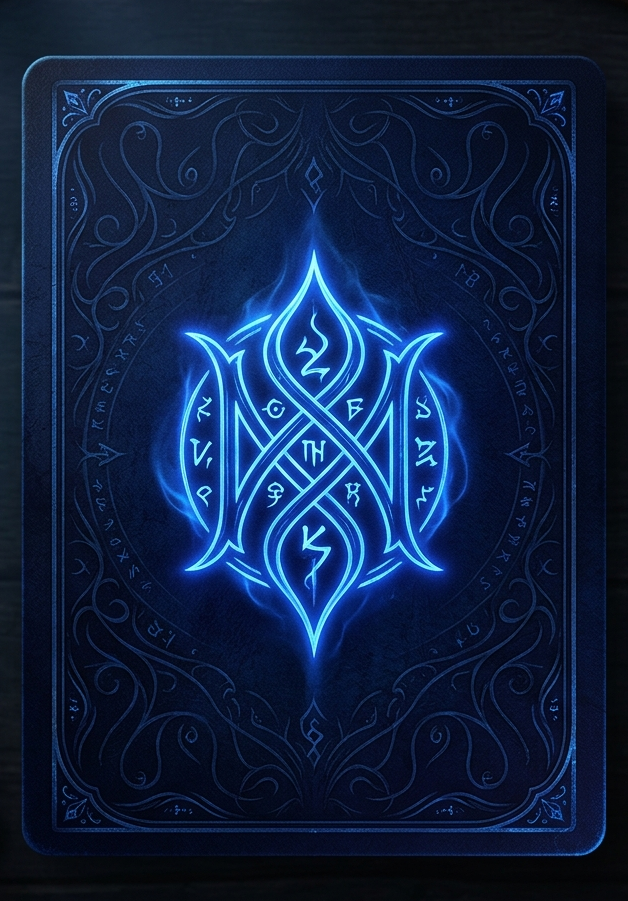
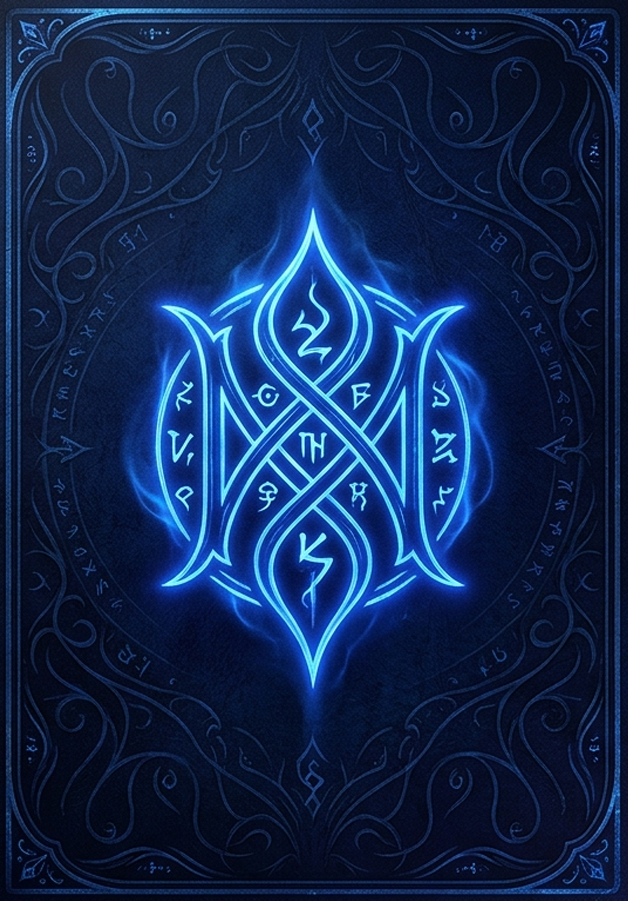
Rework Pity System: add 4th Emergency Aid choice (+35 HP & +20 Armor) in Loot Modal for dynamic Risk vs Reward tactical decision

diff --git a/src/components/LootModal/LootModal.jsx b/src/components/LootModal/LootModal.jsx
@@ -1,6 +1,17 @@
 import React from 'react';
 import './LootModal.css';
 
+const PITY_AID_CARD = {
+  id: 'pity_emergency_aid',
+  name: 'Emergency Aid',
+  type: 'PITY_AID',
+  rarity: 'epic',
+  value: 35,
+  icon: '🚑',
+  color: '#ff0055',
+  description: 'Bantuan Darurat! Pulihkan +35 HP & +20 Armor (Tidak menambah kartu ke deck).'
+};
+
 const LootModal = ({ stage, choices = [], isPityActive, onSelectLoot }) => {
   const choicesCount = choices.length;
 
@@ -10,6 +21,11 @@ const LootModal = ({ stage, choices = [], isPityActive, onSelectLoot }) => {
   } else if (choicesCount === 1) {
     subtitleText = "Tersisa 1 Kartu Baru di Katalog! Klaim kartu terakhir Anda:";
   }
+
+  // Jika Pity System Aktif, tambahkan Pity Aid Card sebagai Pilihan Ke-4 (Emergency Aid)
+  const displayChoices = isPityActive && choicesCount > 0
+    ? [...choices, PITY_AID_CARD]
+    : choices;
 
   return (
     <div className="modal-overlay">
@@ -34,31 +50,37 @@ const LootModal = ({ stage, choices = [], isPityActive, onSelectLoot }) => {
 
             {isPityActive && (
               <div className="pity-notice">
-                🌟 <strong>Pity System Active!</strong> Peluang mendapatkan Kartu Rare & Epic meningkat +25%!
+                🌟 <strong>Pity System Active!</strong> Pilihan Ke-4 "Bantuan Darurat (+35 HP & +20 Armor)" Diaktifkan untuk menyelamatkan Anda!
               </div>
             )}
 
-            <div className={`loot-choices-grid count-${choicesCount}`}>
-              {choices.map((card) => (
-                <div
-                  key={card.id}
-                  className={`loot-card-item ${card.rarity}`}
-                  onClick={() => onSelectLoot(card)}
-                >
-                  <span className="loot-rarity-tag" style={{ color: card.color }}>
-                    {card.rarity}
-                  </span>
-                  <div className="loot-card-icon" style={{ color: card.color }}>
-                    {card.img ? (
-                      <img src={card.img} alt={card.name} className="card-art-img" style={{ borderColor: card.color }} />
-                    ) : (
-                      card.icon
-                    )}
+            <div className={`loot-choices-grid count-${displayChoices.length}`}>
+              {displayChoices.map((card) => {
+                const isPityCard = card.id === 'pity_emergency_aid';
+
+                return (
+                  <div
+                    key={card.id}
+                    className={`loot-card-item ${card.rarity} ${isPityCard ? 'pity-aid-item' : ''}`}
+                    onClick={() => onSelectLoot(card)}
+                  >
+                    <span className="loot-rarity-tag" style={{ color: card.color }}>
+                      {isPityCard ? 'PITY AID' : card.rarity}
+                    </span>
+                    <div className="loot-card-icon" style={{ color: card.color }}>
+                      {card.img ? (
+                        <img src={card.img} alt={card.name} className="card-art-img" style={{ borderColor: card.color }} />
+                      ) : (
+                        card.icon
+                      )}
+                    </div>
+                    <div className="loot-card-name" style={{ color: isPityCard ? '#ff0055' : 'inherit' }}>
+                      {card.name}
+                    </div>
+                    <div className="loot-card-desc">{card.description}</div>
                   </div>
-                  <div className="loot-card-name">{card.name}</div>
-                  <div className="loot-card-desc">{card.description}</div>
-                </div>
-              ))}
+                );
+              })}
             </div>
           </>
         )}

diff --git a/src/components/LootModal/LootModal.css b/src/components/LootModal/LootModal.css
@@ -15,8 +15,8 @@
 
 .loot-modal-content {
   width: 90%;
-  max-width: 600px;
-  padding: 30px;
+  max-width: 680px;
+  padding: 30px 24px;
   display: flex;
   flex-direction: column;
   align-items: center;
@@ -37,15 +37,16 @@
   font-size: 0.85rem;
   color: #ff0055;
   background: rgba(255, 0, 85, 0.15);
-  padding: 6px 14px;
+  padding: 8px 16px;
   border-radius: 20px;
   border: 1px solid rgba(255, 0, 85, 0.4);
+  box-shadow: 0 0 12px rgba(255, 0, 85, 0.2);
 }
 
 .loot-choices-grid {
   display: flex;
   justify-content: center;
-  gap: 16px;
+  gap: 14px;
   width: 100%;
   margin-top: 10px;
 }
@@ -56,6 +57,11 @@
 
 .loot-choices-grid.count-2 .loot-card-item {
   max-width: 200px;
+}
+
+.loot-choices-grid.count-4 .loot-card-item {
+  max-width: 145px;
+  padding: 14px 8px;
 }
 
 .loot-card-item {
@@ -90,6 +96,24 @@
 .loot-card-item.epic {
   border-color: rgba(168, 85, 247, 0.9);
   box-shadow: 0 0 15px rgba(168, 85, 247, 0.4);
+}
+
+/* Pity Emergency Aid Item Styling */
+.loot-card-item.pity-aid-item {
+  border-color: #ff0055;
+  background: rgba(255, 0, 85, 0.14);
+  box-shadow: 0 0 20px rgba(255, 0, 85, 0.4);
+  animation: pulsePity 2s infinite alternate;
+}
+
+.loot-card-item.pity-aid-item:hover {
+  border-color: #ff3377;
+  box-shadow: 0 0 30px rgba(255, 0, 85, 0.8);
+}
+
+@keyframes pulsePity {
+  from { box-shadow: 0 0 12px rgba(255, 0, 85, 0.3); }
+  to { box-shadow: 0 0 26px rgba(255, 0, 85, 0.7); }
 }
 
 .loot-card-icon {
@@ -169,7 +193,7 @@
   to { opacity: 1; transform: scale(1); }
 }
 
-@media (max-width: 500px) {
+@media (max-width: 550px) {
   .loot-choices-grid {
     flex-direction: column;
     align-items: center;

diff --git a/src/components/GameBoard/GameBoard.jsx b/src/components/GameBoard/GameBoard.jsx
@@ -603,7 +603,18 @@ const GameBoard = () => {
     setShowLootModal(false);
 
     let updatedDeck = playerDeck;
-    if (selectedCard) {
+    if (selectedCard && selectedCard.id === 'pity_emergency_aid') {
+      // Pity Emergency Aid Selected! Pemulihan Darurat +35 HP & +20 Armor
+      soundManager.playHealSFX();
+      soundManager.playBlockSFX();
+      spawnFloatingText('🚑 EMERGENCY AID +35 HP & +20 ARMOR!', 'heal');
+      setPlayer((prev) => ({
+        ...prev,
+        hp: Math.min(prev.maxHp, prev.hp + 35),
+        block: prev.block + 20
+      }));
+    } else if (selectedCard) {
+      // Normal Loot Card Selected
       updatedDeck = [selectedCard, ...playerDeck];
       setPlayerDeck(updatedDeck);
     } else {
@@ -646,7 +657,7 @@ const GameBoard = () => {
       {/* Pity Indicator Banner jika Pity Active */}
       {isPityActive && (
         <div className="pity-active-banner">
-          🌟 <strong>Pity System Active!</strong> Bantuan Darurat Diaktifkan (+25% Rare/Epic Drop).
+          🌟 <strong>Pity System Active!</strong> Bantuan Darurat Diaktifkan: Tersedia Pilihan Ke-4 (+35 HP & +20 Armor) di Loot Stage!
         </div>
       )}
 

diff --git a/docs/4_CARDS_CATALOG.md b/docs/4_CARDS_CATALOG.md
@@ -9,6 +9,7 @@ Dokumen ini berisi daftar lengkap 15 kartu yang ada di dalam game, mencakup stat
 - ⚪ **Common (Biasa):** Drop rate 60%. Efek standar (Cyber Dagger, Nano Barrier, Bio Nectar).
 - 🔵 **Rare (Langka):** Drop rate 30%. Efek lebih kuat & spesifik (Plasma Blade, Quantum Piercer, Aura Shield, Cyber Elixir, Oracle Eye, Corrosive Virus).
 - 🟣 **Epic (Sangat Langka):** Drop rate 10%. Efek dahsyat yang membalikkan keadaan (Aether Strike, Aegis Protocol, Phoenix Catalyst, Glitch Overlay, EMP Disrupter, Divine Wrath).
+- 🚑 **Pity Aid (Bantuan Darurat):** Opsi Pilihan Ke-4 khusus yang aktif jika pemain mengalami krisis HP (< 50%) & Mismatch Streak (>= 3).
 
 ---
 
@@ -26,7 +27,7 @@ Dokumen ini berisi daftar lengkap 15 kartu yang ada di dalam game, mencakup stat
 | `buff_vision` | **Oracle Eye** | BUFF | Rare | **Scan 2 Kartu** | `/assets/cards/buff_eye.png` |
 | `debuff_poison` | **Corrosive Virus** | DEBUFF | Rare | **16 Damage** | `/assets/cards/debuff_virus.png` |
 | `atk_aether` | **Aether Strike** | ATTACK | Epic | **30 Damage** | `/assets/cards/atk_plasma.png` |
-| `def_aegis` | **Aegis Protocol** | DEFENSE | Epic | **32 Block** | `/assets/cards/def_shield.png` |
+| `def_aegis` | **Aegis Protocol** | EPIC | Epic | **32 Block** | `/assets/cards/def_shield.png` |
 | `heal_phoenix` | **Phoenix Catalyst** | HEAL | Epic | **35 HP Heal** | `/assets/cards/heal_potion.png` |
 | `debuff_glitch` | **Glitch Overlay** | DEBUFF | Epic | **24 Damage** | `/assets/cards/debuff_virus.png` |
 | `debuff_emp` | **EMP Disrupter** | DEBUFF | Epic | **28 Damage (Lumpuhkan Perisai)** | `/assets/cards/debuff_virus.png` |
@@ -34,13 +35,16 @@ Dokumen ini berisi daftar lengkap 15 kartu yang ada di dalam game, mencakup stat
 
 ---
 
-## 3. Logika Progresi Loot & Kelengkapan Deck (Strict Non-Duplicate System)
+## 3. Logika Progresi Loot & Mekanik Pity Emergency Aid (Risk vs Reward)
+
 1. **Pemain Mulai di Stage 1:** Memiliki 8 Kartu Starter di Deck. Sisa kartu katalog yang belum dimiliki = **7 Kartu**.
 2. **Aturan Loot Strict:** Loot Modal **HANYA menawarkan kartu yang BELUM dimiliki** oleh pemain.
-3. **Penyesuaian Jumlah Pilihan Loot:**
-   - Kartu Belum Dimiliki >= 3 -> Menampilkan **3 Pilihan**.
-   - Kartu Belum Dimiliki == 2 -> Menampilkan **2 Pilihan**.
-   - Kartu Belum Dimiliki == 1 -> Menampilkan **1 Pilihan Terakhir**.
-   - Kartu Belum Dimiliki == 0 -> Deck 100% Lengkap! Menampilkan **🎉 Bonus +50 HP Pemulihan Maksimal**.
+3. **Mekanisme Pity System (Pilihan Ke-4 Bantuan Darurat):**
+   - **Terpicu Saat:** HP Pemain < 50% DAN Mismatch Streak >= 3 pada stage tersebut.
+   - **Tampilan Loot:** Menyediakan **Pilihan Ke-4: 🚑 Emergency Aid (+35 HP & +20 Armor)**.
+   - **Dilema Takstis (Risk vs Reward):**
+     - Jika pemain memilih **Emergency Aid**: Pemain memulihkan 35 HP & 20 Armor untuk bertahan hidup, TETAPI tidak mengambil kartu baru. Progresi kartu katalog tertunda!
+     - Jika pemain memilih **Kartu Loot Baru**: Pemain mengembangkan deck (High Risk), tetapi tidak mendapat pemulihan darurat.
 4. **Target Stage Kelengkapan Deck:**
-   Seluruh 15 kartu katalog berhasil terkumpul 100% lengkap pada penyelesaian **STAGE 7 CLEAR**.
+   - **Skenario Tanpa Pity Aid:** Kelengkapan 15 kartu tercapai di **Stage 7 Clear**.
+   - **Skenario Menggunakan Pity Aid:** Setiap kali Pity Aid diambil, target kelengkapan kartu bergeser ke **Stage 8, Stage 9, dst**, tergantung berapa kali pemain memilih untuk menyelamatkan diri.